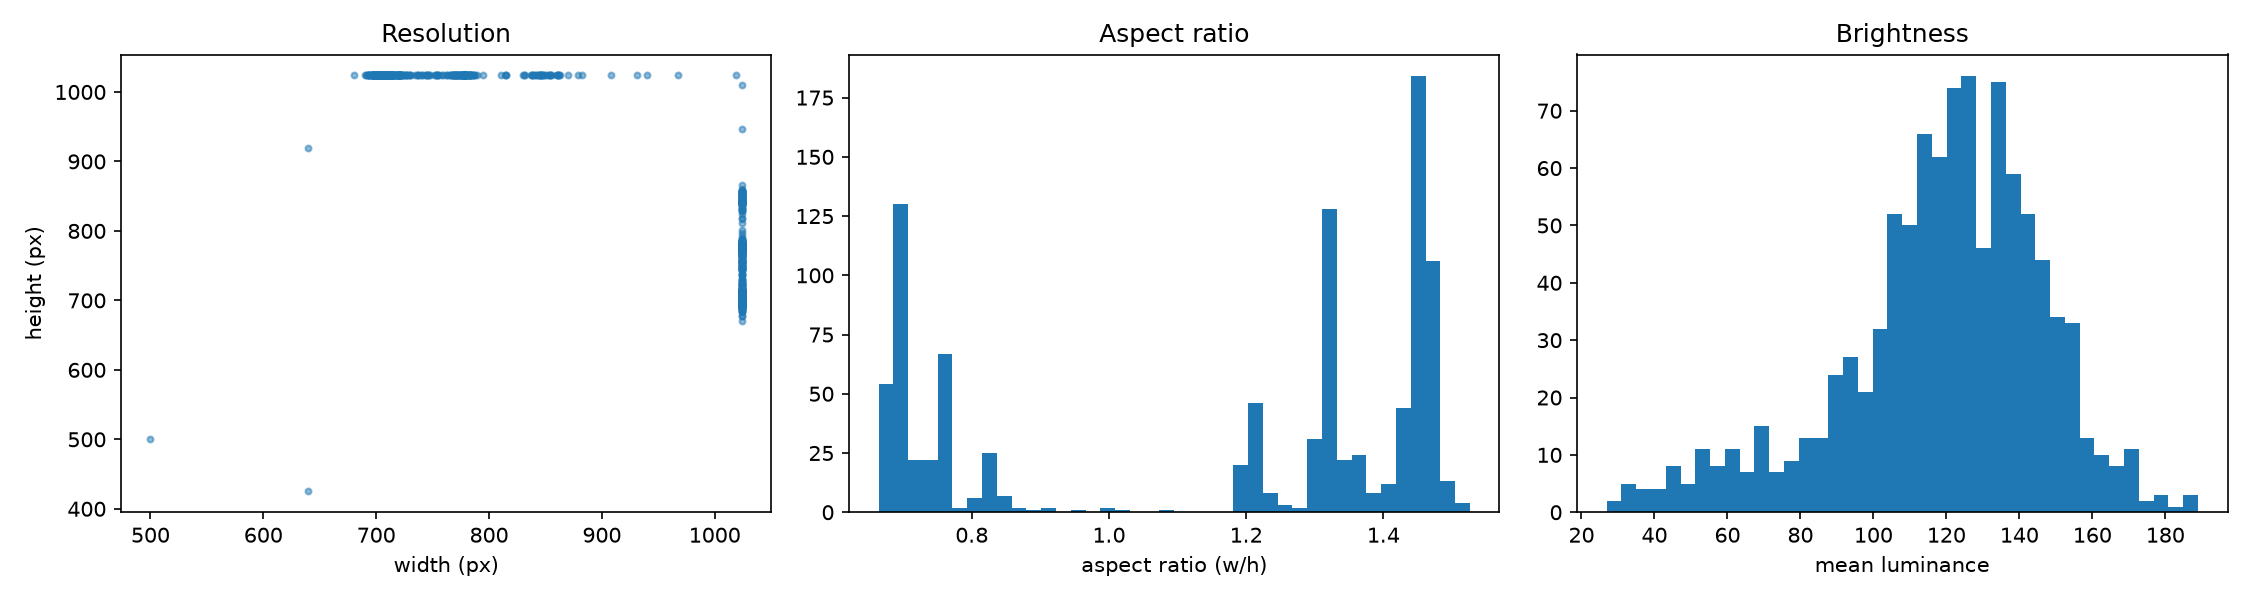
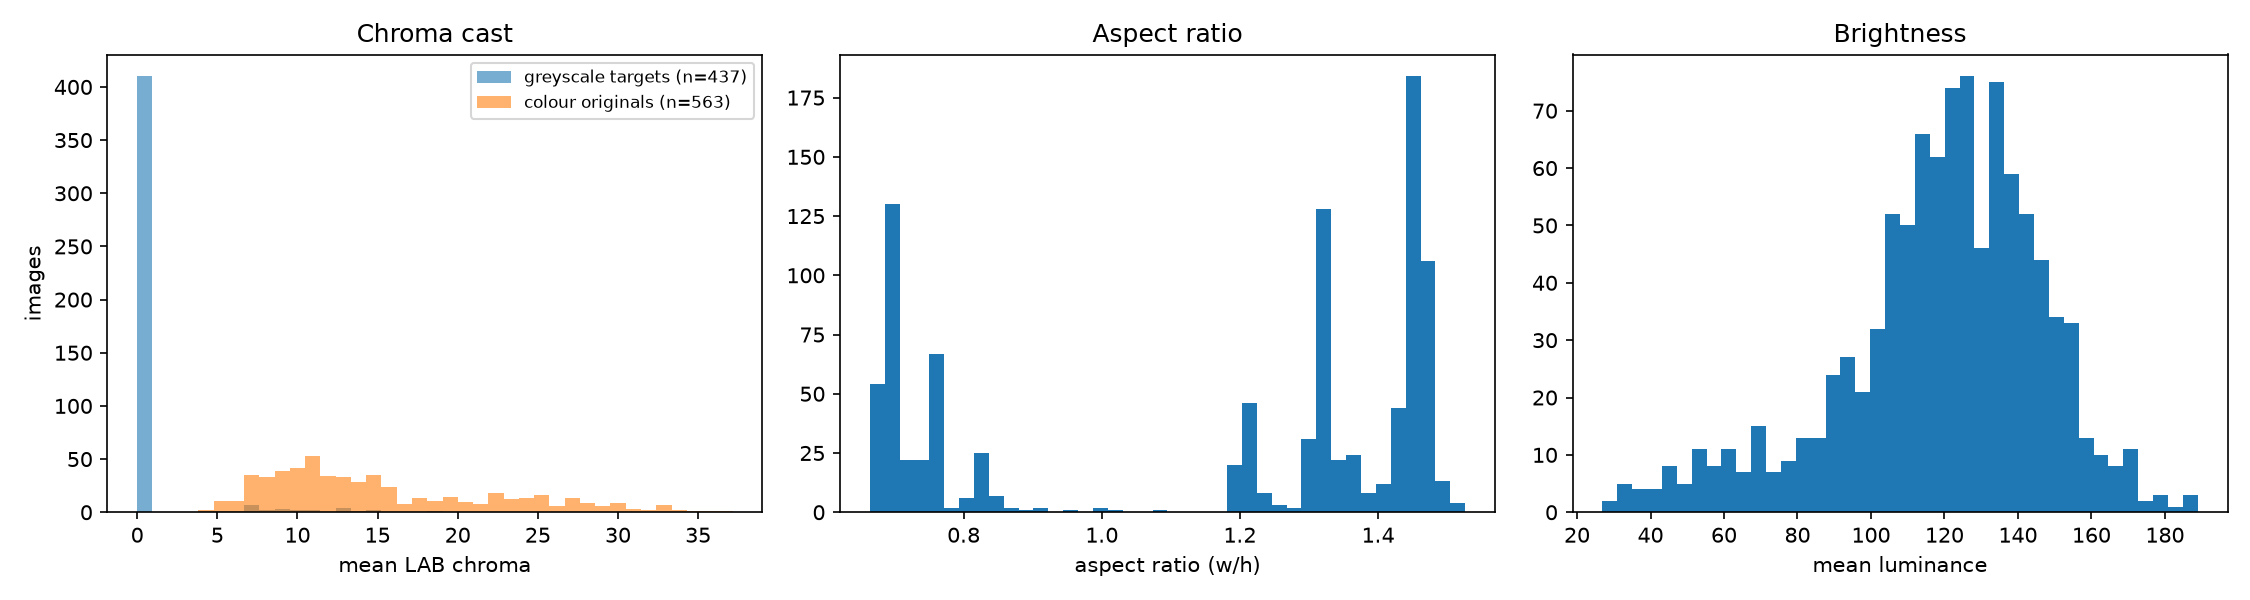
Replace resolution scatter with chroma-cast distribution by medium class

diff --git a/eda.py b/eda.py
@@ -82,10 +82,17 @@ def figures(rows):
     os.makedirs(FIG_DIR, exist_ok=True)
 
     fig, ax = plt.subplots(1, 3, figsize=(15, 4))
-    ax[0].scatter([r["w"] for r in rows], [r["h"] for r in rows], s=8, alpha=0.5)
-    ax[0].set_xlabel("width (px)")
-    ax[0].set_ylabel("height (px)")
-    ax[0].set_title("Resolution")
+    grey_tone = [r["tone"] for r in rows if not r["colour"]]
+    col_tone = [r["tone"] for r in rows if r["colour"]]
+    bins = np.linspace(0, max(r["tone"] for r in rows), 40)
+    ax[0].hist(grey_tone, bins=bins, alpha=0.6,
+               label=f"greyscale targets (n={len(grey_tone)})")
+    ax[0].hist(col_tone, bins=bins, alpha=0.6,
+               label=f"colour originals (n={len(col_tone)})")
+    ax[0].set_xlabel("mean LAB chroma")
+    ax[0].set_ylabel("images")
+    ax[0].set_title("Chroma cast")
+    ax[0].legend(fontsize=8)
 
     ax[1].hist([r["aspect"] for r in rows], bins=40)
     ax[1].set_xlabel("aspect ratio (w/h)")
@@ -151,6 +158,8 @@ def report(rows):
     hs = [r["h"] for r in rows]
     print(f"width  median {int(statistics.median(ws))}  range {min(ws)}-{max(ws)}")
     print(f"height median {int(statistics.median(hs))}  range {min(hs)}-{max(hs)}")
+    longs = [max(r["w"], r["h"]) for r in rows]
+    print(f"long edge median {int(statistics.median(longs))}  range {min(longs)}-{max(longs)}")
 
     land = sum(1 for r in rows if r["aspect"] > 1)
     print(f"landscape {land} ({land/n*100:.0f}%)  portrait {n-land} ({(n-land)/n*100:.0f}%)")
@@ -162,8 +171,14 @@ def report(rows):
     print(f"greyscale (colorization targets) {n-col}")
 
     tones = [r["tone"] for r in rows if not r["colour"]]
-    print(f"\nsepia strength (mean LAB chroma, greyscale scans only)")
-    print(f"  median {statistics.median(tones):.1f}  range {min(tones):.1f}-{max(tones):.1f}")
+    ctones = [r["tone"] for r in rows if r["colour"]]
+    print(f"\nmean LAB chroma")
+    if tones:
+        print(f"  greyscale targets  median {statistics.median(tones):.1f}"
+              f"  range {min(tones):.1f}-{max(tones):.1f}")
+    if ctones:
+        print(f"  colour originals   median {statistics.median(ctones):.1f}"
+              f"  range {min(ctones):.1f}-{max(ctones):.1f}")
 
     dyn = [r["p99"] - r["p01"] for r in rows]
     faded = sum(1 for d in dyn if d < 180)
